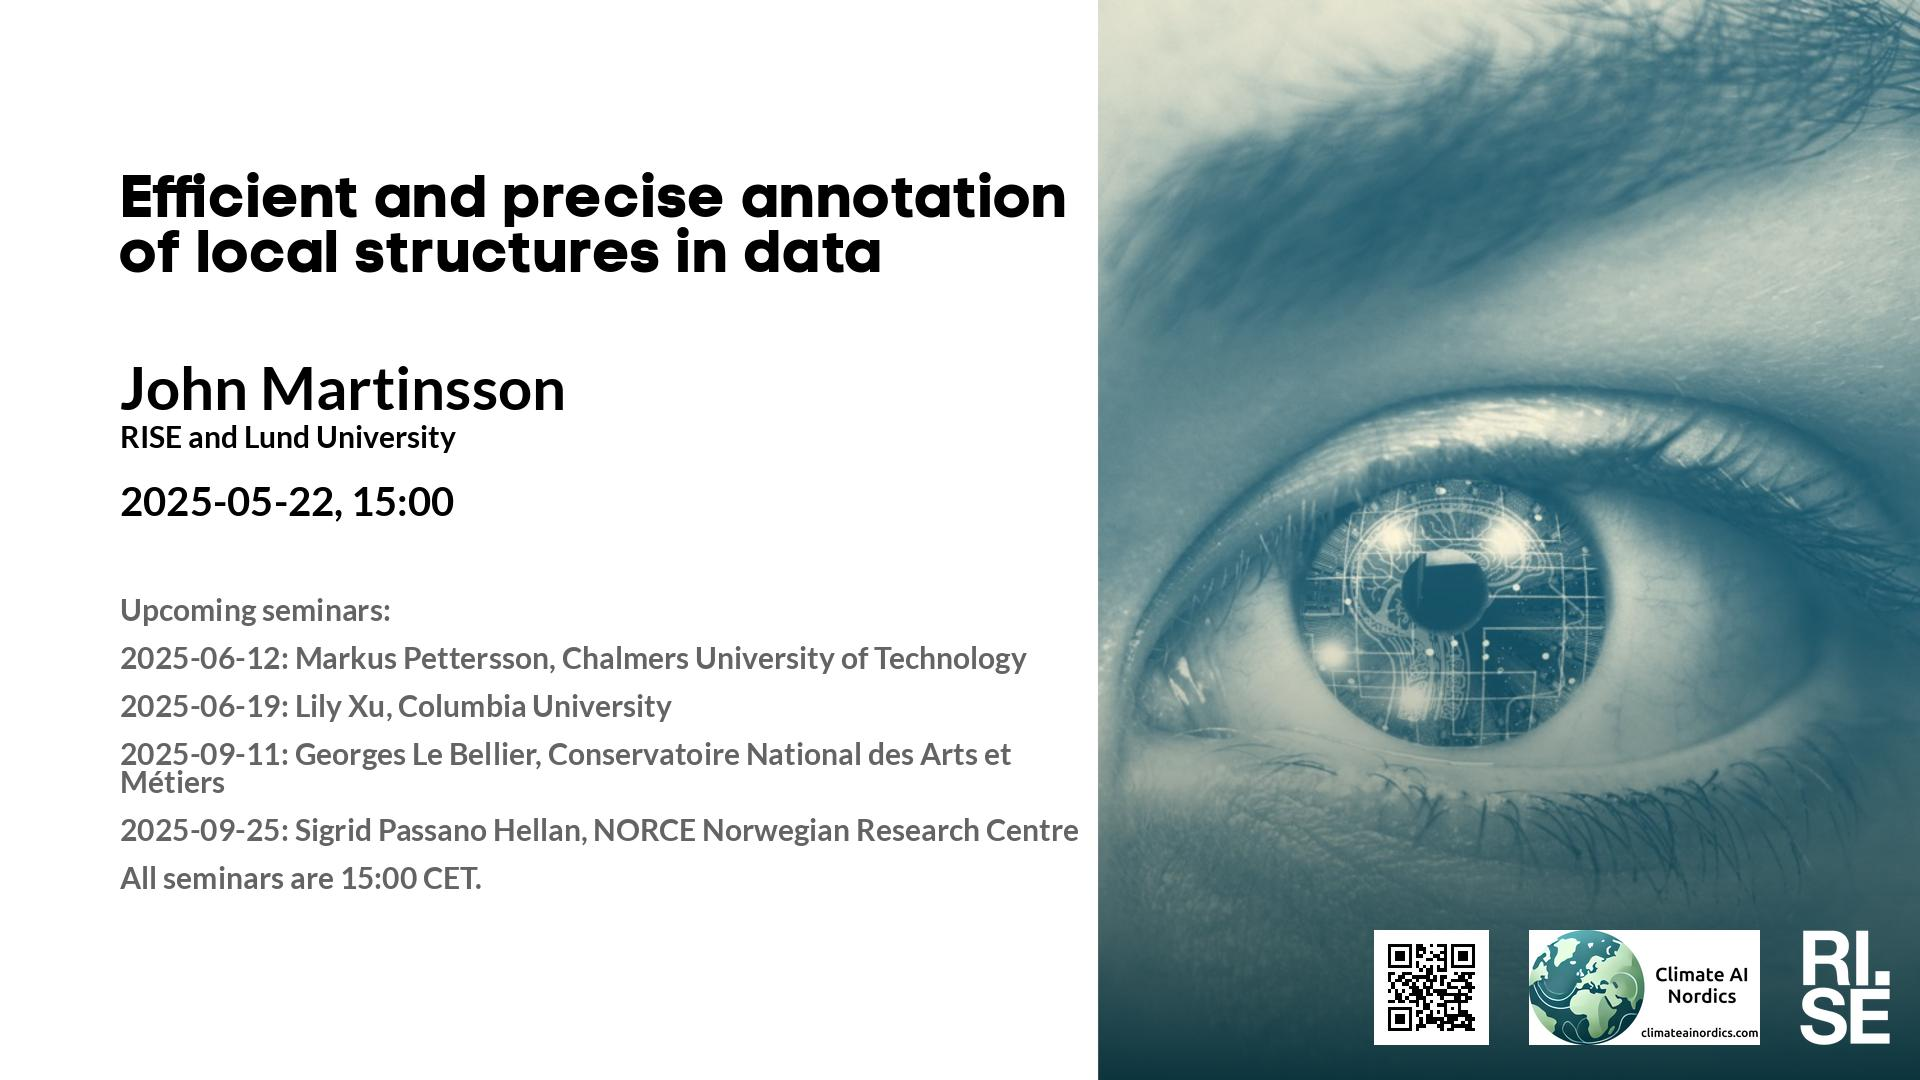
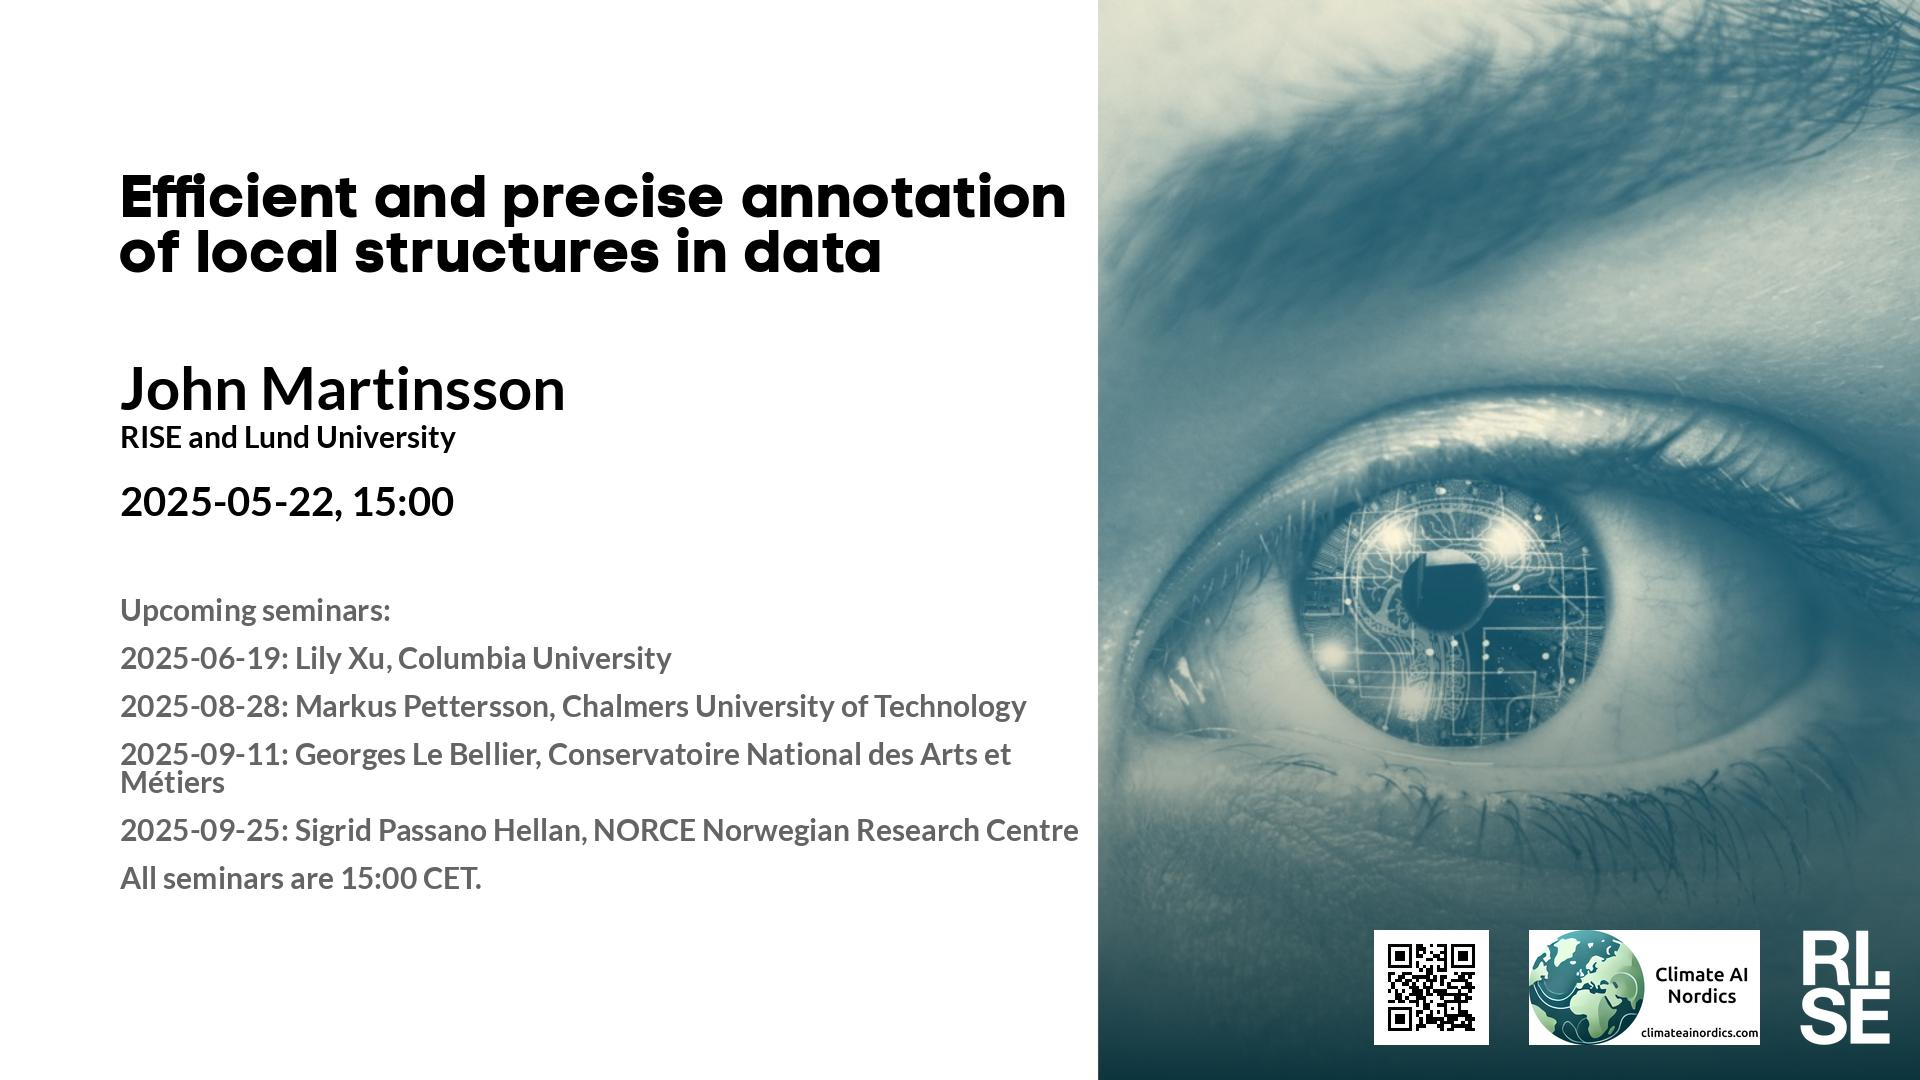
Updated plan on web site.

Changed region(s): [[0.125, 0.5806, 0.5312, 0.6722]]

diff --git a/lm/2025.md b/lm/2025.md
@@ -30,9 +30,9 @@ table {border-collapse: collapse;}
 |  2025-05-22  |  [John Martinsson, RISE and Lund University](2025-05-22.md)  |  [photo](2025-05-22-photo-john-martinsson.png)  |  [social media ](2025-05-22-social-media-john-martinsson.jpg)  |  [meeting backdrop ](2025-05-22-meeting-backdrop-john-martinsson.jpg)  |  [youtube thumbnail ](2025-05-22-youtube-thumbnail-john-martinsson.jpg)  |  STABP  |
 | <span style="color:red"> 2025-05-29 </span> | <span style="color:red"> Ascension Day  </span> | <span style="color:red">  </span> | <span style="color:red">  </span> | <span style="color:red">  </span> | <span style="color:red">  </span> | <span style="color:red"> CANCELLED </span> |
 | <span style="color:red"> 2025-06-05 </span> | <span style="color:red"> No Seminar </span> | <span style="color:red">  </span> | <span style="color:red">  </span> | <span style="color:red">  </span> | <span style="color:red">  </span> | <span style="color:red"> CANCELLED </span> |
-|  2025-06-12  |  [Markus Pettersson, Chalmers University of Technology](2025-06-12.md)  |  [photo](2025-06-12-photo-markus-pettersson.jpg)  |  [social media ](2025-06-12-social-media-markus-pettersson.jpg)  |  [meeting backdrop ](2025-06-12-meeting-backdrop-markus-pettersson.jpg)  |  [youtube thumbnail ](2025-06-12-youtube-thumbnail-markus-pettersson.jpg)  |  STABP  |
+| <span style="color:purple"> 2025-06-12 </span> | <span style="color:purple"> *Up for grabs!!!* </span> | <span style="color:purple">  </span> | <span style="color:purple">  </span> | <span style="color:purple">  </span> | <span style="color:purple">  </span> | <span style="color:purple"> ~~STABP~~ </span> |
 |  2025-06-19  |  [Lily Xu, Columbia University](2025-06-19.md)  |  [photo](2025-06-19-photo-lily-xu.jpg)  |  [social media ](2025-06-19-social-media-lily-xu.jpg)  |  [meeting backdrop ](2025-06-19-meeting-backdrop-lily-xu.jpg)  |  [youtube thumbnail ](2025-06-19-youtube-thumbnail-lily-xu.jpg)  |  STABP  |
-| <span style="color:purple"> 2025-08-28 </span> | <span style="color:purple"> *Up for grabs!!!* </span> | <span style="color:purple">  </span> | <span style="color:purple">  </span> | <span style="color:purple">  </span> | <span style="color:purple">  </span> | <span style="color:purple"> ~~STABP~~ </span> |
+|  2025-08-28  |  [Markus Pettersson, Chalmers University of Technology](2025-08-28.md)  |    |  [social media ](2025-08-28-social-media-markus-pettersson.jpg)  |  [meeting backdrop ](2025-08-28-meeting-backdrop-markus-pettersson.jpg)  |  [youtube thumbnail ](2025-08-28-youtube-thumbnail-markus-pettersson.jpg)  |  STAB~~P~~  |
 |  2025-09-11  |  [Georges Le Bellier, Conservatoire National des Arts et Métiers](2025-09-11.md)  |    |  [social media ](2025-09-11-social-media-georges-le-bellier.jpg)  |  [meeting backdrop ](2025-09-11-meeting-backdrop-georges-le-bellier.jpg)  |  [youtube thumbnail ](2025-09-11-youtube-thumbnail-georges-le-bellier.jpg)  |  S~~TABP~~  |
 |  2025-09-25  |  [Sigrid Passano Hellan, NORCE Norwegian Research Centre](2025-09-25.md)  |  [photo](2025-09-25-photo-sigrid-passano-hellan.jpg)  |  [social media ](2025-09-25-social-media-sigrid-passano-hellan.jpg)  |  [meeting backdrop ](2025-09-25-meeting-backdrop-sigrid-passano-hellan.jpg)  |  [youtube thumbnail ](2025-09-25-youtube-thumbnail-sigrid-passano-hellan.jpg)  |  S~~TA~~BP  |
 | <span style="color:purple"> 2025-10-09 </span> | <span style="color:purple"> *Up for grabs!!!* </span> | <span style="color:purple">  </span> | <span style="color:purple">  </span> | <span style="color:purple">  </span> | <span style="color:purple">  </span> | <span style="color:purple"> ~~STABP~~ </span> |

diff --git a/lm/index.md b/lm/index.md
@@ -30,9 +30,9 @@ table {border-collapse: collapse;}
 |  2025-05-22  |  [John Martinsson, RISE and Lund University](2025-05-22.md)  |  [photo](2025-05-22-photo-john-martinsson.png)  |  [social media ](2025-05-22-social-media-john-martinsson.jpg)  |  [meeting backdrop ](2025-05-22-meeting-backdrop-john-martinsson.jpg)  |  [youtube thumbnail ](2025-05-22-youtube-thumbnail-john-martinsson.jpg)  |  STABP  |
 | <span style="color:red"> 2025-05-29 </span> | <span style="color:red"> Ascension Day  </span> | <span style="color:red">  </span> | <span style="color:red">  </span> | <span style="color:red">  </span> | <span style="color:red">  </span> | <span style="color:red"> CANCELLED </span> |
 | <span style="color:red"> 2025-06-05 </span> | <span style="color:red"> No Seminar </span> | <span style="color:red">  </span> | <span style="color:red">  </span> | <span style="color:red">  </span> | <span style="color:red">  </span> | <span style="color:red"> CANCELLED </span> |
-|  2025-06-12  |  [Markus Pettersson, Chalmers University of Technology](2025-06-12.md)  |  [photo](2025-06-12-photo-markus-pettersson.jpg)  |  [social media ](2025-06-12-social-media-markus-pettersson.jpg)  |  [meeting backdrop ](2025-06-12-meeting-backdrop-markus-pettersson.jpg)  |  [youtube thumbnail ](2025-06-12-youtube-thumbnail-markus-pettersson.jpg)  |  STABP  |
+| <span style="color:purple"> 2025-06-12 </span> | <span style="color:purple"> *Up for grabs!!!* </span> | <span style="color:purple">  </span> | <span style="color:purple">  </span> | <span style="color:purple">  </span> | <span style="color:purple">  </span> | <span style="color:purple"> ~~STABP~~ </span> |
 |  2025-06-19  |  [Lily Xu, Columbia University](2025-06-19.md)  |  [photo](2025-06-19-photo-lily-xu.jpg)  |  [social media ](2025-06-19-social-media-lily-xu.jpg)  |  [meeting backdrop ](2025-06-19-meeting-backdrop-lily-xu.jpg)  |  [youtube thumbnail ](2025-06-19-youtube-thumbnail-lily-xu.jpg)  |  STABP  |
-| <span style="color:purple"> 2025-08-28 </span> | <span style="color:purple"> *Up for grabs!!!* </span> | <span style="color:purple">  </span> | <span style="color:purple">  </span> | <span style="color:purple">  </span> | <span style="color:purple">  </span> | <span style="color:purple"> ~~STABP~~ </span> |
+|  2025-08-28  |  [Markus Pettersson, Chalmers University of Technology](2025-08-28.md)  |    |  [social media ](2025-08-28-social-media-markus-pettersson.jpg)  |  [meeting backdrop ](2025-08-28-meeting-backdrop-markus-pettersson.jpg)  |  [youtube thumbnail ](2025-08-28-youtube-thumbnail-markus-pettersson.jpg)  |  STAB~~P~~  |
 |  2025-09-11  |  [Georges Le Bellier, Conservatoire National des Arts et Métiers](2025-09-11.md)  |    |  [social media ](2025-09-11-social-media-georges-le-bellier.jpg)  |  [meeting backdrop ](2025-09-11-meeting-backdrop-georges-le-bellier.jpg)  |  [youtube thumbnail ](2025-09-11-youtube-thumbnail-georges-le-bellier.jpg)  |  S~~TABP~~  |
 |  2025-09-25  |  [Sigrid Passano Hellan, NORCE Norwegian Research Centre](2025-09-25.md)  |  [photo](2025-09-25-photo-sigrid-passano-hellan.jpg)  |  [social media ](2025-09-25-social-media-sigrid-passano-hellan.jpg)  |  [meeting backdrop ](2025-09-25-meeting-backdrop-sigrid-passano-hellan.jpg)  |  [youtube thumbnail ](2025-09-25-youtube-thumbnail-sigrid-passano-hellan.jpg)  |  S~~TA~~BP  |
 | <span style="color:purple"> 2025-10-09 </span> | <span style="color:purple"> *Up for grabs!!!* </span> | <span style="color:purple">  </span> | <span style="color:purple">  </span> | <span style="color:purple">  </span> | <span style="color:purple">  </span> | <span style="color:purple"> ~~STABP~~ </span> |

diff --git a/lm/2025-08-28.md b/lm/2025-08-28.md
@@ -1,0 +1,39 @@
+---
+layout: default
+metatags: "<meta name=\"robots\" content=\"noindex,nofollow\" />"
+---
+ 
+Welcome to this week's Learning Machines seminar.
+
+This seminar is a collaboration between RISE and Climate AI Nordics -- [climateainordics.com](https://climateainordics.com/).
+
+**Title:** Debiasing AI predictions for causal inference without fresh ground truth data
+
+**Speaker:** Markus Pettersson, Chalmers University of Technology
+
+**Abstract:** Machine learning models trained on Earth observation data, particularly satellite imagery, have recently shown impressive performance in predicting household-level wealth indices, potentially addressing chronic data scarcity in global development research. While these predictions exhibit strong predictive power, they inherently suffer from shrinkage toward the mean, resulting in attenuated estimates of causal treatment effects and thus limiting their utility in policy evaluations. Existing debiasing methods, such as Prediction-Powered Inference (PPI), require additional fresh ground-truth data at the downstream causal inference stage, severely restricting their applicability in data-poor environments.
+
+In this paper, we introduce and rigorously evaluate two novel correction methods—linear calibration correction and Tweedie&#x27;s correction—that substantially reduce prediction bias without relying on newly collected labeled data. Our methods operate on out-of-sample predictions from pre-trained models, treating these models as black-box functions. Linear calibration corrects bias through a straightforward linear transformation derived from held-out calibration data, while Tweedie&#x27;s correction leverages empirical Bayes principles to directly address shrinkage-induced biases by exploiting score functions derived from predicted outcomes.
+
+Through analytical exercises and experiments using Demographic and Health Survey (DHS) data, we demonstrate that both proposed methods outperform existing data-free approaches, can achieve significant reductions in attenuation bias and thus providing more accurate, actionable, and policy-relevant estimates. Our approach represents a generalizable, lightweight toolkit that enhances the reliability of causal inference when direct outcome measures are limited or unavailable.
+
+**About the speaker:** Markus B. Pettersson is a PhD student working at the intersection of machine learning and earth observation, with a focus on large-scale poverty mapping and its applications in development research. His work explores how satellite imagery and data-driven models can be used to estimate socioeconomic conditions in data-scarce regions, and how these maps can support causal analysis in policy and intervention design.
+
+**Location:** This is an online seminar. Connect using Zoom.
+
+**Date:** 2025-08-28 15:00
+
+**Zoom link:** [https://rise.zoom.us/j/69691371971?pwd=jy9UY79Xu0Ca7Sat9DCO3aReaPEAAH.1](https://rise.zoom.us/j/69691371971?pwd=jy9UY79Xu0Ca7Sat9DCO3aReaPEAAH.1)
+
+**Upcoming seminars:**
+
+* 2025-09-11: Georges Le Bellier, Conservatoire National des Arts et Métiers
+* 2025-09-25: Sigrid Passano Hellan, NORCE Norwegian Research Centre
+* 2025-10-23: Nora Gourmelon, Friedrich-Alexander-Universität Erlangen-Nürnberg (FAU)
+* 2025-11-06: Felix Koehler, TU Munich
+* All seminars are 15:00 CET.
+
+More information and coming seminars: [https://ri.se/lm-sem](https://ri.se/lm-sem)
+
+-- The Learning Machines Team
+

diff --git a/lm/2025-06-19.md b/lm/2025-06-19.md
@@ -23,10 +23,10 @@ This seminar is a collaboration between RISE and Climate AI Nordics -- [climatea
 
 **Upcoming seminars:**
 
+* 2025-08-28: Markus Pettersson, Chalmers University of Technology
 * 2025-09-11: Georges Le Bellier, Conservatoire National des Arts et Métiers
 * 2025-09-25: Sigrid Passano Hellan, NORCE Norwegian Research Centre
 * 2025-10-23: Nora Gourmelon, Friedrich-Alexander-Universität Erlangen-Nürnberg (FAU)
-* 2025-11-06: Felix Koehler, TU Munich
 * All seminars are 15:00 CET.
 
 More information and coming seminars: [https://ri.se/lm-sem](https://ri.se/lm-sem)

diff --git a/lm/2025-05-22.md b/lm/2025-05-22.md
@@ -25,8 +25,8 @@ This talk examines how to lower annotation cost and increase label quality when 
 
 **Upcoming seminars:**
 
-* 2025-06-12: Markus Pettersson, Chalmers University of Technology
 * 2025-06-19: Lily Xu, Columbia University
+* 2025-08-28: Markus Pettersson, Chalmers University of Technology
 * 2025-09-11: Georges Le Bellier, Conservatoire National des Arts et Métiers
 * 2025-09-25: Sigrid Passano Hellan, NORCE Norwegian Research Centre
 * All seminars are 15:00 CET.
